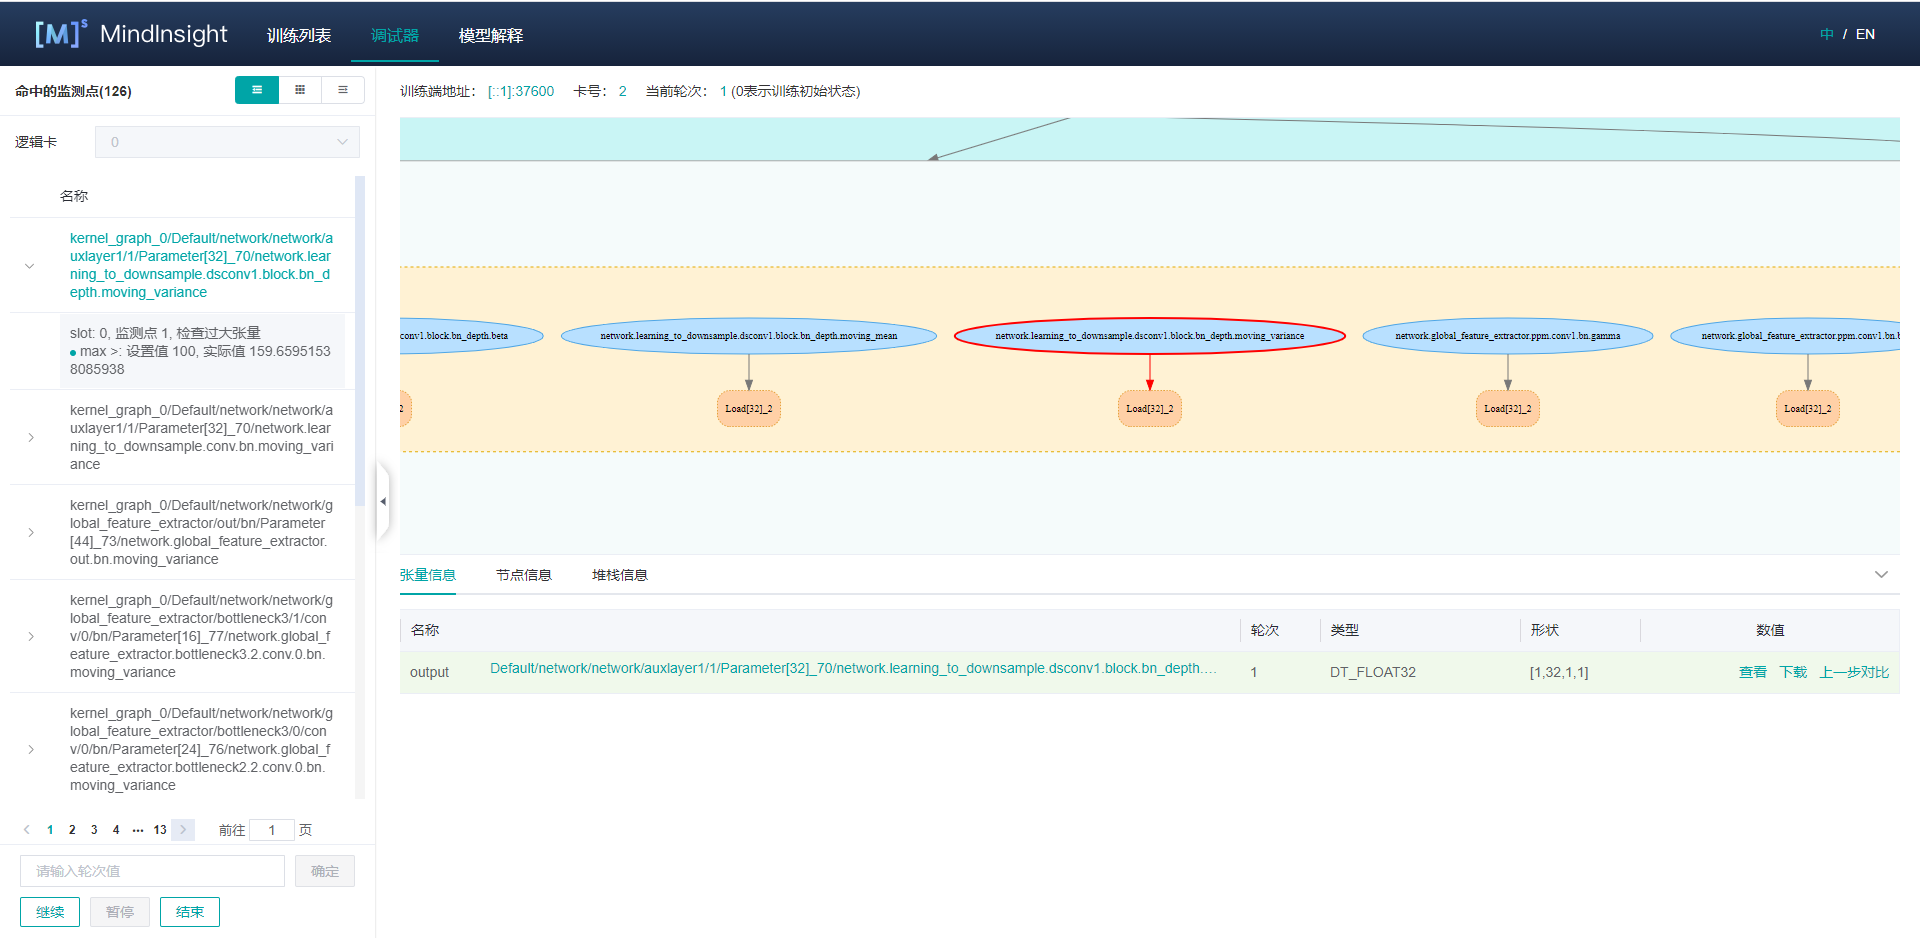
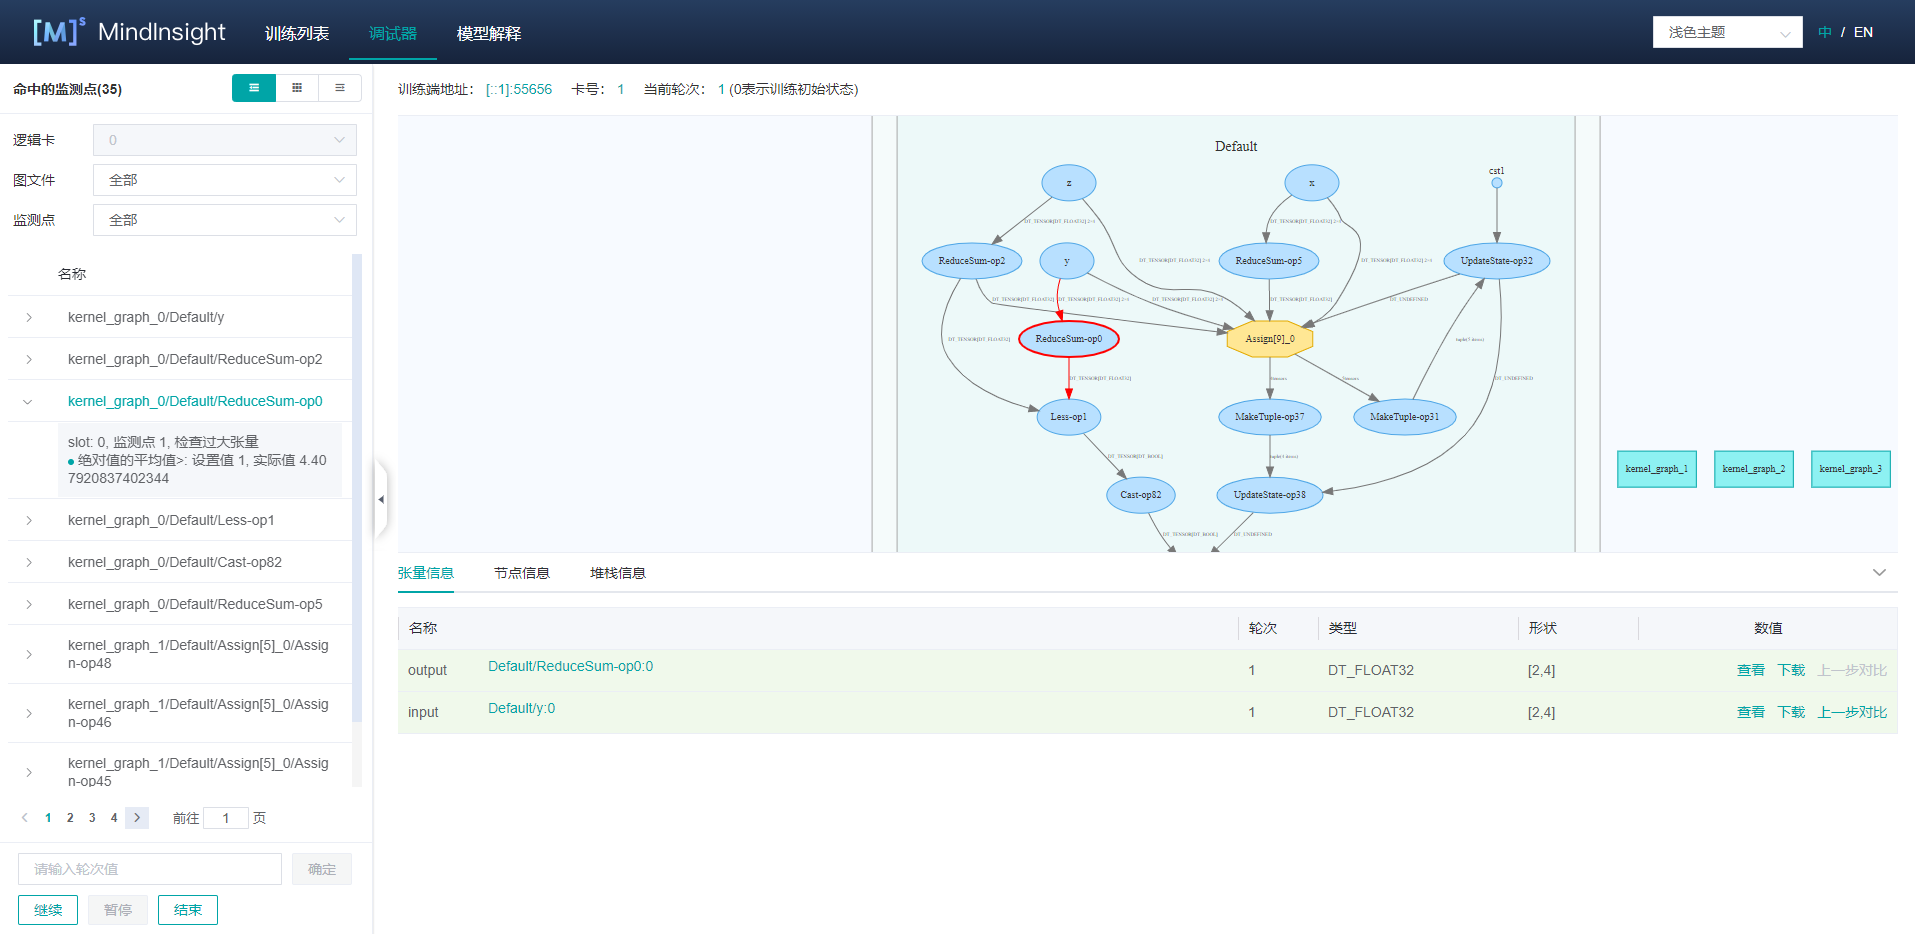
Update debugger for watchpointhit group

diff --git a/docs/mindinsight/docs/source_en/debugger_online.md b/docs/mindinsight/docs/source_en/debugger_online.md
@@ -153,14 +153,19 @@ The following conditions are supported (abbreviations in parentheses):
 
 After a watchpoint is generated, you can select or deselect nodes to be monitored in the node list, as shown in Figure 3. In addition, you can click the `clear watchpoint` icon or `X` icon to delete watchpoints.
 
-During training, the debugger analyzes the outputs of these monitored nodes in real time. Once the watchpoint conditions are hit, the training is suspended. You can view the information about the hit watchpoints on the UI.
+During training, the debugger analyzes the outputs of these monitored nodes in real time. Once the watchpoint conditions are hit, the training is suspended. You can view the information about the hit nodes on the UI.
 
 ![debugger_watch_point_hit](images/debugger_watch_point_hit.png)
 
-Figure 5: Viewing hit watchpoints
+Figure 5: Viewing hit nodes
 
-The hit watchpoints are displayed on the left of the UI. The hit nodes and watchpoint conditions are sorted based on the node execution sequence. Each record displays the configured threshold and the actual value.
-In addition, after you click a record, the corresponding node is displayed in the computational graph. You can view the node information to analyze the possible cause. Click `View` to enter the tensor check view. You can view the hit watchpoint information and optimization guide, as shown in Figure 6.
+The hit nodes are displayed on the left of the UI. If more than one watchpoints are set, UI can show the result of the specified watchpoint by choosing the watchpoint id in the watchpoint pull list.
+If the training network consists of more than one sub graphs, you can choose the sub graph name in the graph file pull list to show the results of the specified sub graph.
+For multi-card training, you can choose the logic card id in the logic card pull list to show the hit nodes on the specified card
+(Only for offline debugger, online debugger does not support distributed training at present).
+
+In the same sub graph, the hit nodes are sorted based on the node execution sequence. On the left of the node name, click on the expand icon, the hit watchpoints and watchpoint condition will be displayed. Each record displays the configured threshold and the actual value.
+In addition, after you click a record, the corresponding node is displayed in the computational graph. You can view the node information to analyze the possible cause. Click `View` to enter the tensor check view. You can view the hit watchpoint information and optimization guide, as shown in Figure 8.
 
 ### Stack List
 
@@ -202,11 +207,11 @@ with four buttons: `CONTINUE`, `PAUSE`, `TERMINATE` and `OK`:
 
 ![debugger_tensor_view](images/debugger_tensor_view.png)
 
-Figure 6: Viewing tensors value
+Figure 8: Viewing tensors value
 
 Some `tensors` have too many dimensions and cannot be directly displayed on the home page. You can click the corresponding `View` button to view the detailed information about the `tensor` value on the displayed tensor check view.
 
-As shown in Figure 6, the tensor check view displays the `tensor` values in the upper part of the UI. You can set the `Dimension Selection` and click `Current Step`, `Previous step`, and `Comparison Result` to display and compare tensors. (Currently, the parameter node can be compared only with the previous one step.) In addition, you can set shards in `Dimension Selection` to display a `tensor` in the specified dimension.
+As shown in Figure 8, the tensor check view displays the `tensor` values in the upper part of the UI. You can set the `Dimension Selection` and click `Current Step`, `Previous step`, and `Comparison Result` to display and compare tensors. (Currently, the parameter node can be compared only with the previous one step.) In addition, you can set shards in `Dimension Selection` to display a `tensor` in the specified dimension.
 
 The `node information`, `current step`, and `statistics` are displayed on the top of the view. The optimization guide is displayed on the left of the view. When a watchpoint is hit, the hit information and optimization suggestions are displayed. The tensor relationship diagram and detailed `node information` are displayed on the lower part of the view.
 
@@ -220,7 +225,7 @@ Tensors can be downloaded in tensor check view. Users can download the desired t
 
     ![debugger_waiting](./images/debugger_waiting.png)
 
-    Figure 7: Debugger Start and Waiting for the Training
+    Figure 9: Debugger Start and Waiting for the Training
 
     The Debugger server is launched and waiting for the training to connect.
 
@@ -230,7 +235,7 @@ Tensors can be downloaded in tensor check view. Users can download the desired t
 
     ![debugger_ask_recommend](images/debugger_ask_recommend.png)
 
-    Figure 8: Debugger ask whether to use the recommended watchpoints
+    Figure 10: Debugger ask whether to use the recommended watchpoints
 
 4. Later, you can see that the computational graph is displayed on the Debugger UI, as shown in Figure 1.
 

diff --git a/docs/mindinsight/docs/source_zh_cn/debugger_online.md b/docs/mindinsight/docs/source_zh_cn/debugger_online.md
@@ -147,14 +147,18 @@ mindinsight start --port {PORT} --enable-debugger True --debugger-port {DEBUGGER
 
 检测点生成后用户还可以在节点列表添加或取消要监控的节点（勾选节点前的方框），如图3所示。除此之外，用户可以通过点击`清空监测点`按钮或者点击监测点旁边的`x`来删除监测点。
 
-训练时，调试器会对这些监控节点的输出进行实时分析，一旦监控条件触发，训练暂停，用户可在UI上查看触发的监测点信息。
+训练时，调试器会对这些监控节点的输出进行实时分析，一旦监控条件触发，训练暂停，用户可在UI上查看触发的监测节点信息。
 
 ![debugger_watch_point_hit](images/debugger_watch_point_hit.png)
 
-图5： 查看触发的监测点
+图5： 查看触发的监测节点
 
-图5展示了监测点触发后的展示页面，该页面和`节点列表`所在位置相同。触发的节点以及监控条件会按照节点的执行序排列，触发的监控条件上会显示该条件的设置值以及触发该条件的实际值。
-另外，用户点击某一行，会在计算图中跳转到对应节点，可以进一步查看节点信息分析异常结果出现的原因。点击`查看`进入张量检查视图可以查看触发的监测点信息以及调优向导，如图6所示。
+图5展示了触发了监测点的节点列表，该页面和`节点列表`所在位置相同。如果设置了多个监测点，可以在监测点的下拉框中选择监测点id号，就会只展示触发了选中监测点的节点列表。
+如果是多子图的网络，还可以在图文件的下拉框中选择图名称，就会只展示选中的子图中触发了监测点的节点列表。
+如果是多卡训练，还可以选择逻辑卡号来展示对应逻辑卡上触发了监测点的节点列表（目前只支持离线调试，在线调试器暂不支持多卡训练）。
+
+同一张子图上的触发了监测点的节点会按照节点的执行序排列，点击节点名左侧的展开图标，显示该节点触发的监测点和监控条件，监控条件上会显示该条件的设置值以及触发该条件的实际值。
+另外，用户点击某一行，会在计算图中跳转到对应节点，可以进一步查看节点信息分析异常结果出现的原因。点击`查看`进入张量检查视图可以查看触发的监测点信息以及调优向导，如图8所示。
 
 ### 堆栈列表
 
